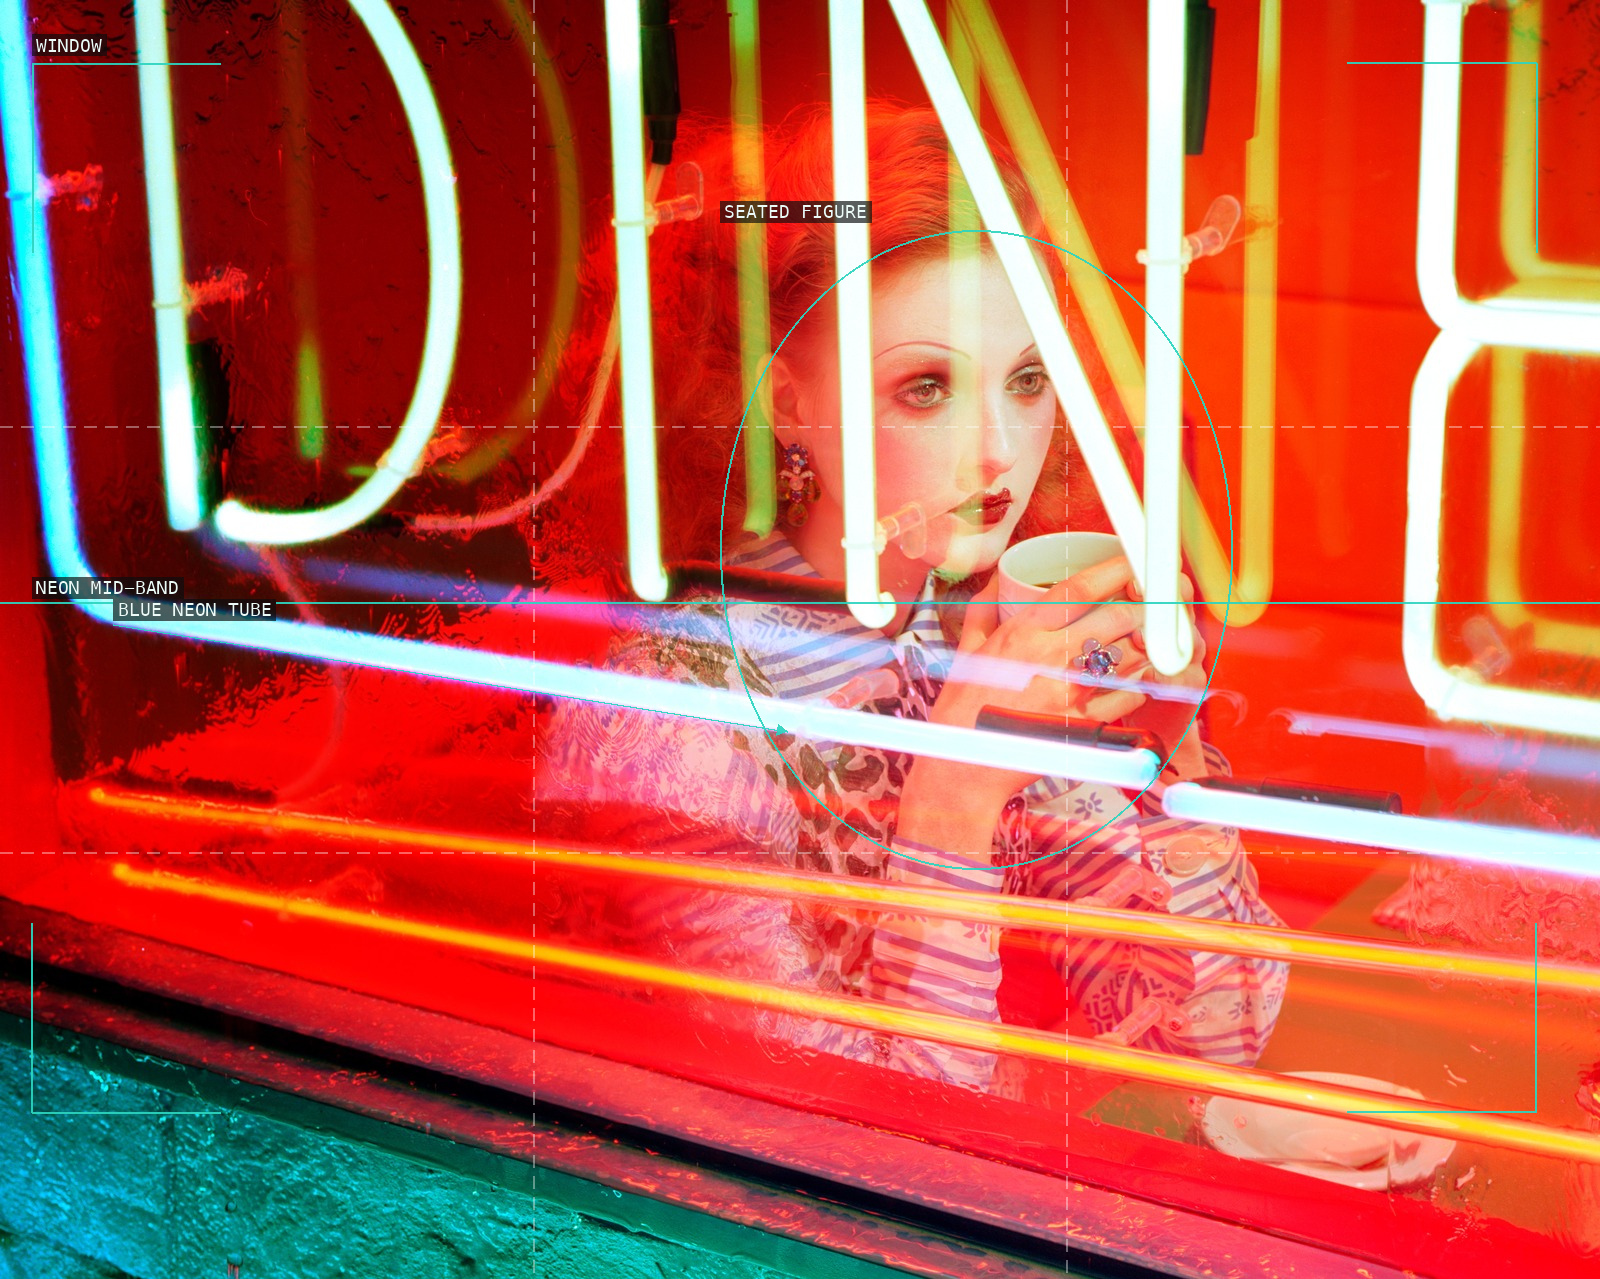
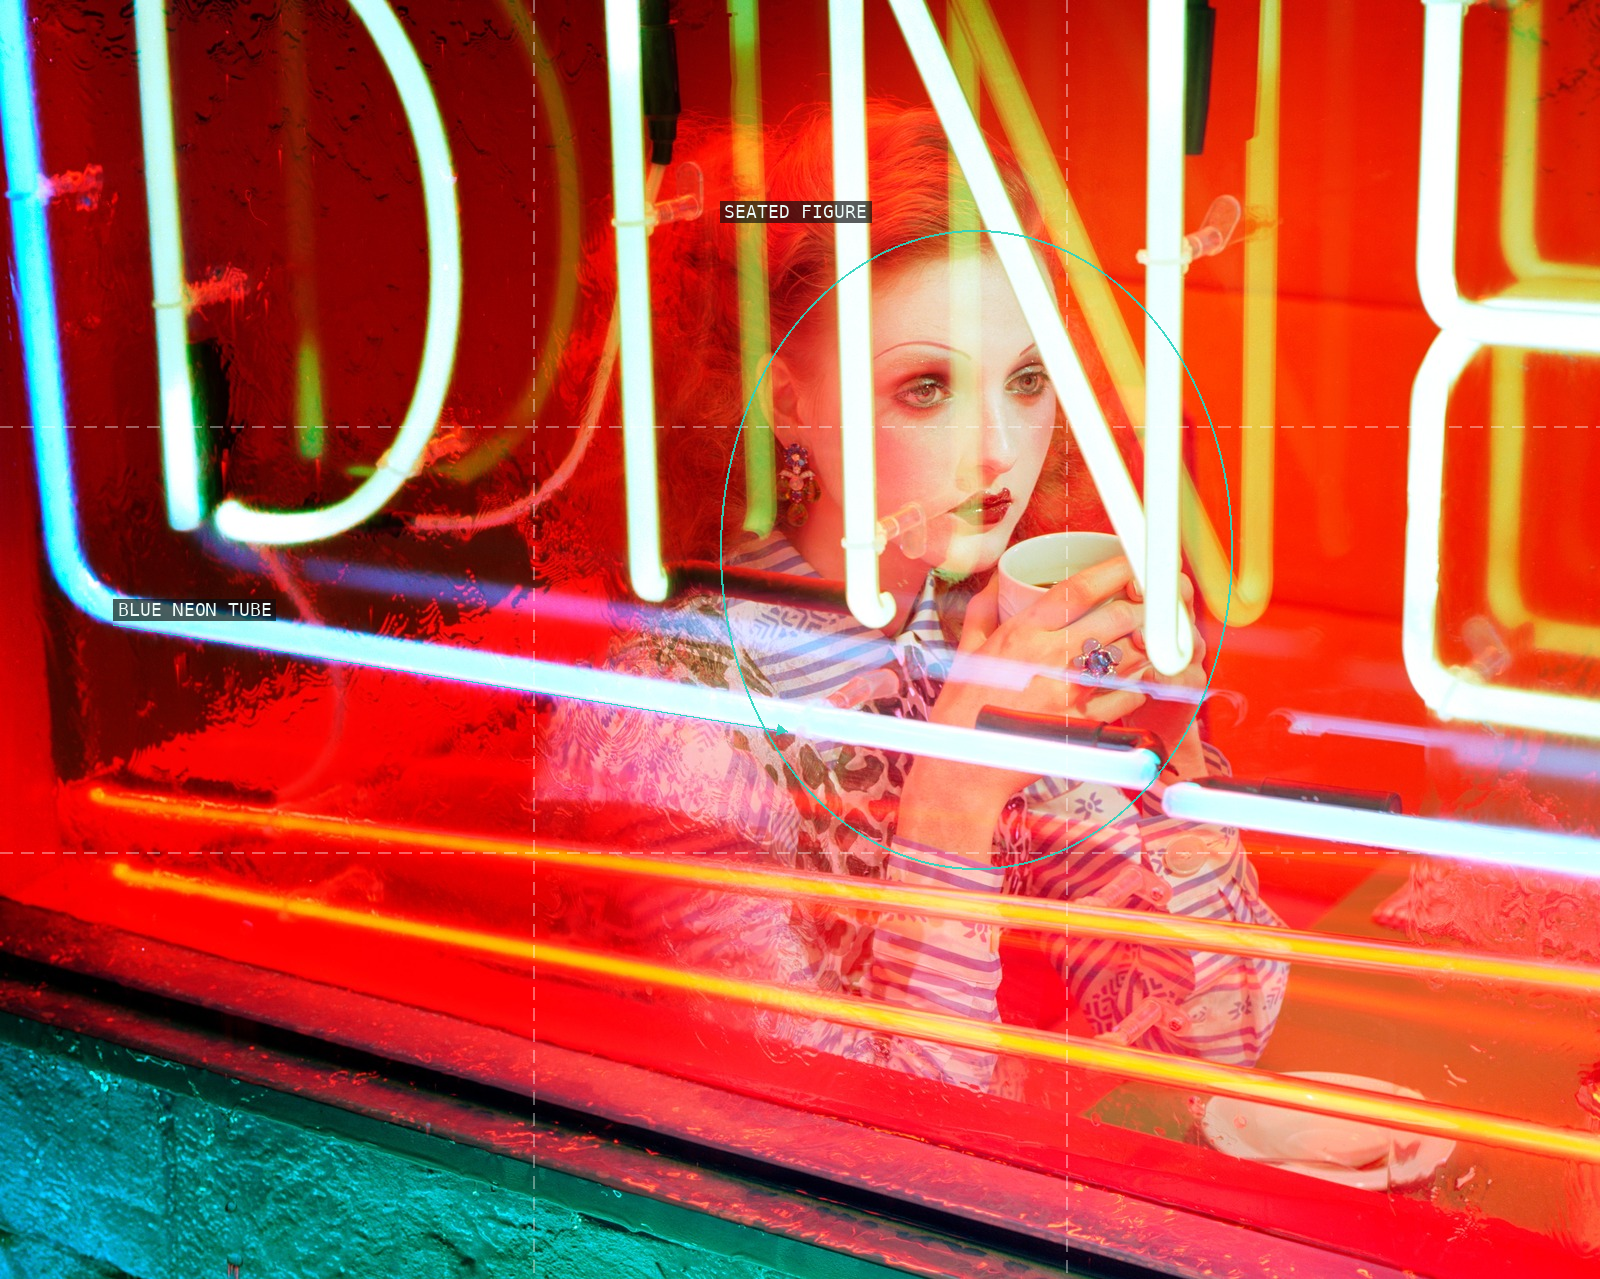
resolve critique: miles-aldridge

Changed region(s): [[0.0, 0.4269, 0.125, 0.4879], [0.0, 0.0, 0.0938, 0.061]]

diff --git a/content/miles-aldridge/sources.md b/content/miles-aldridge/sources.md
@@ -24,26 +24,27 @@ original, the artist's archive, a book, print, or licensed reproduction.
 
 ### 01 — *Red Marks #1* (2003)
 
-- **Why it matters:** The low red foreground band, pale wall, and receding figure
-  turn a domestic scene into a lesson in colour blocking and delayed recognition.
+- **Why it matters:** Fried eggs form a pale, glossy field while one pink-tipped
+  cigarette cuts diagonally into the yolk, making a small interruption carry the
+  complete-frame still life.
 - **Source:** [official work record](https://milesaldridge.com/red-marks-1/) ·
   [public display file](https://milesaldridge.com/wp-content/uploads/2020/04/Red-Marks-1.jpg)
 - **Use basis: fair-use.** Creator/rightsholder notice: © Miles Aldridge. The
-  complete frame is needed to study the red threshold, off-centre figure, and empty
-  wall together; a credited, linked web copy is transformative criticism and cannot
+  complete frame is needed to study the egg field, yolks, and cigarette together;
+  a credited, linked web copy is transformative criticism and cannot
   replace the artist's original, print, book, or licensed file.
 - **File:** `raw/miles-aldridge/01-red-marks-1.jpg` (4000 × 2657px)
 
 ### 02 — *Like A Painting #1* (2005)
 
-- **Why it matters:** A frontal seated figure is held in an unnaturally tall vertical
-  field, making saturated colour, furniture, and the surrounding void behave like a
-  constructed portrait stage.
+- **Why it matters:** A pale profile, looping pearl strings, and small butterflies
+  are set against a dense dark-green field, making hair, decoration, and foliage
+  read as a constructed portrait surface.
 - **Source:** [official work record](https://milesaldridge.com/like-a-painting-1/) ·
   [public display file](https://milesaldridge.com/wp-content/uploads/2020/04/Like-A-Painting-1.jpg)
 - **Use basis: fair-use.** Creator/rightsholder notice: © Miles Aldridge. Full-frame
-  analysis requires the figure, chair, and large enclosing colour field rather than
-  a decorative crop; the credited, linked web-sized copy supports transformative
+  analysis requires the profile, bead strings, butterflies, and enclosing foliage
+  rather than a decorative crop; the credited, linked web-sized copy supports transformative
   scholarship and does not substitute for the archive, original, or licensed print.
 - **File:** `raw/miles-aldridge/02-like-a-painting-1.jpg` (4000 × 5315px)
 
@@ -74,27 +75,26 @@ original, the artist's archive, a book, print, or licensed reproduction.
 
 ### 05 — *A Family Portrait #1* (2011)
 
-- **Why it matters:** A group is dispersed across a deliberately artificial domestic
-  set, so repeated poses and gaps between bodies create a tense, cinematic family
-  tableau rather than a conventional portrait.
+- **Why it matters:** A small walking pair and pink balloon sit at the far right of
+  a long, tree-lined avenue, so their isolation has to be read against the empty
+  corridor of road.
 - **Source:** [official work record](https://milesaldridge.com/a-family-portrait-1/) ·
   [public display file](https://milesaldridge.com/wp-content/uploads/2020/04/A-Family-Portrait-1.jpg)
 - **Use basis: fair-use.** Creator/rightsholder notice: © Miles Aldridge. The intact
-  frame is necessary to read all figures, their spacing, and the set's enclosing
-  geometry; this credited, linked web copy serves composition criticism and does not
+  frame is necessary to read the pair, balloon, tree rows, and the avenue's empty
+  distance together; this credited, linked web copy serves composition criticism and does not
   substitute for the original, archive, print, book, or licensed image.
 - **File:** `raw/miles-aldridge/05-a-family-portrait-1.jpg` (4000 × 2656px)
 
 ### 06 — *I Only Want You To Love Me #1* (2011)
 
-- **Why it matters:** A posed woman, telephone, and tightly patterned room make the
-  image a compact study in prop-based narrative and the conflict between a bright
-  focal point and claustrophobic surroundings.
+- **Why it matters:** A yellow-clad figure is held above a receding checkerboard
+  floor and a red debris field, making colour-separated planes do the narrative work.
 - **Source:** [official work record](https://milesaldridge.com/i-only-want-you-to-love-me_1_4000px/) ·
   [public display file](https://milesaldridge.com/wp-content/uploads/2020/04/I-Only-Want-You-To-Love-Me_1_4000px.jpg)
 - **Use basis: fair-use.** Creator/rightsholder notice: © Miles Aldridge. Criticism
-  needs the whole frame to connect figure, telephone, pattern, and margins; the
-  credited, linked web rendition is a transformative scholarly use and cannot
+  needs the whole frame to connect the yellow figure, checkerboard recession, and
+  lower debris field; the credited, linked web rendition is a transformative scholarly use and cannot
   replace the artist's archive, print, book, or licensed reproduction.
 - **File:** `raw/miles-aldridge/06-i-only-want-you-to-love-me-1.jpg` (4000 × 2754px)
 
@@ -125,14 +125,13 @@ original, the artist's archive, a book, print, or licensed reproduction.
 
 ### 09 — *The Promise* (2016)
 
-- **Why it matters:** The tall format pins a tiny, carefully posed figure inside a
-  highly ordered interior, demonstrating how vertical scale can make a room feel
-  psychologically oppressive.
+- **Why it matters:** A close frontal portrait is crossed by a radiating crack,
+  making the fracture's impact point and rays interrupt an otherwise immaculate face.
 - **Source:** [official work record](https://milesaldridge.com/the-promise/) ·
   [public display file](https://milesaldridge.com/wp-content/uploads/2020/04/The-Promise.jpg)
 - **Use basis: fair-use.** Creator/rightsholder notice: © Miles Aldridge. The figure
-  and the entire height of the room must remain together to teach scale, centrality,
-  and enclosure; this credited, linked web-sized analytical copy is transformative
+  and the complete face must remain together to teach the crack impact point and
+  radiating rays; this credited, linked web-sized analytical copy is transformative
   and does not replace the archive, original, print, book, or licensed reproduction.
 - **File:** `raw/miles-aldridge/09-the-promise.jpg` (4000 × 5181px)
 

diff --git a/content/miles-aldridge/critique.md b/content/miles-aldridge/critique.md
@@ -1,4 +1,4 @@
-verdict: revise
+verdict: resolved
 
 ## Critique round — 2026-08-01
 
@@ -20,3 +20,24 @@ verdict: revise
 
 - All eleven proofs were visually inspected. The deterministic strict scorer reports 100/100 for every overlay; the required overlay findings above are semantic/visual, which the geometric scorer does not test.
 - Every listed official work-record URL returned HTTP 200. No camera settings are invented: the manifest’s EXIF objects are empty and the chapter/research explicitly limit claims accordingly.
+
+## Resolution — 2026-08-01
+
+Re-verified required fixes from the complete critique history: the 2026-08-01
+round (the only prior round).
+
+1. `04-a-precious-glam-2` now labels the outlined food as `RED DISH`; its
+   chapter paragraph likewise identifies a white dish containing red food.
+2. `08-night-car-1` now retains only the visible blue neon tube and seated
+   figure; the unsupported `WINDOW` frame and `NEON MID-BAND` have been
+   removed. The fresh rendered proof was visually checked and the strict
+   deterministic score is 100/100.
+3. The five corrected source records now describe the complete-frame
+   relationships actually present in their files: eggs/cigarette;
+   profile/beads/butterflies; avenue pair/balloon; yellow
+   figure/checkerboard/debris; and cracked close portrait. Each retains its
+   image-specific factor-three necessity and non-substitution rationale.
+
+`04-a-precious-glam-2` was also freshly rendered, visually checked, and scored
+100/100 in strict mode. The updated chapter is byte-identical to
+`src/chapters/miles-aldridge.mdx`.
